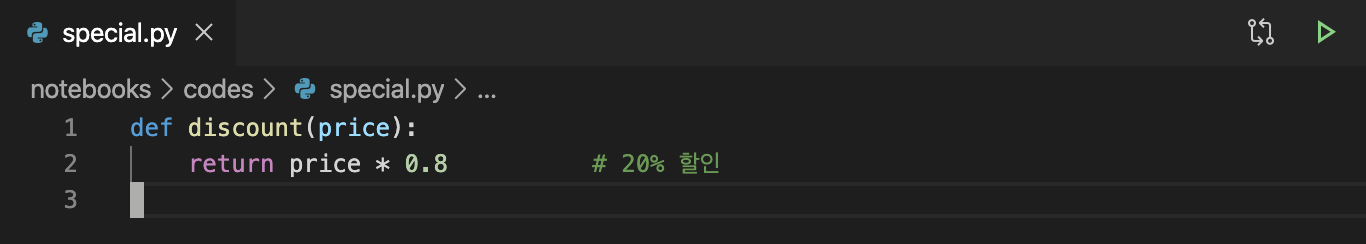
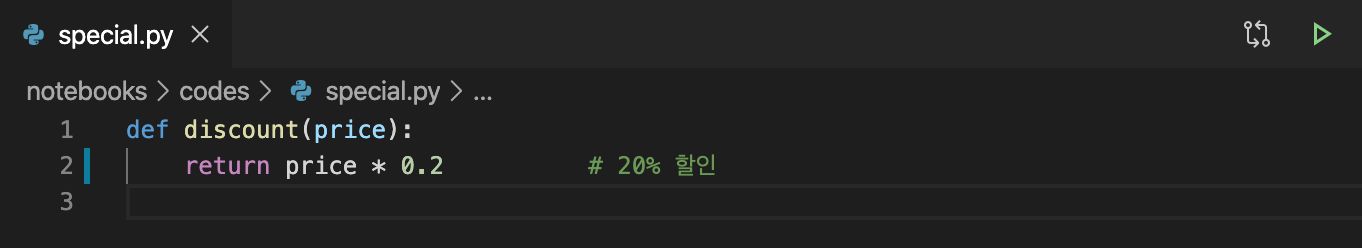
PiPy06 being prepared

diff --git a/notebooks/codes/receipt.py b/notebooks/codes/receipt.py
@@ -9,4 +9,4 @@ def saveReceipt(items, selections, price):
 
 # 멤버십 할인 함수
 def discount(price):
-    return price * 0.9          # 10% 할인
+    return price * 0.1          # 10% 할인

diff --git a/notebooks/codes/special.py b/notebooks/codes/special.py
@@ -1,2 +1,2 @@
 def discount(price):
-    return price * 0.8          # 20% 할인
+    return price * 0.2          # 20% 할인
